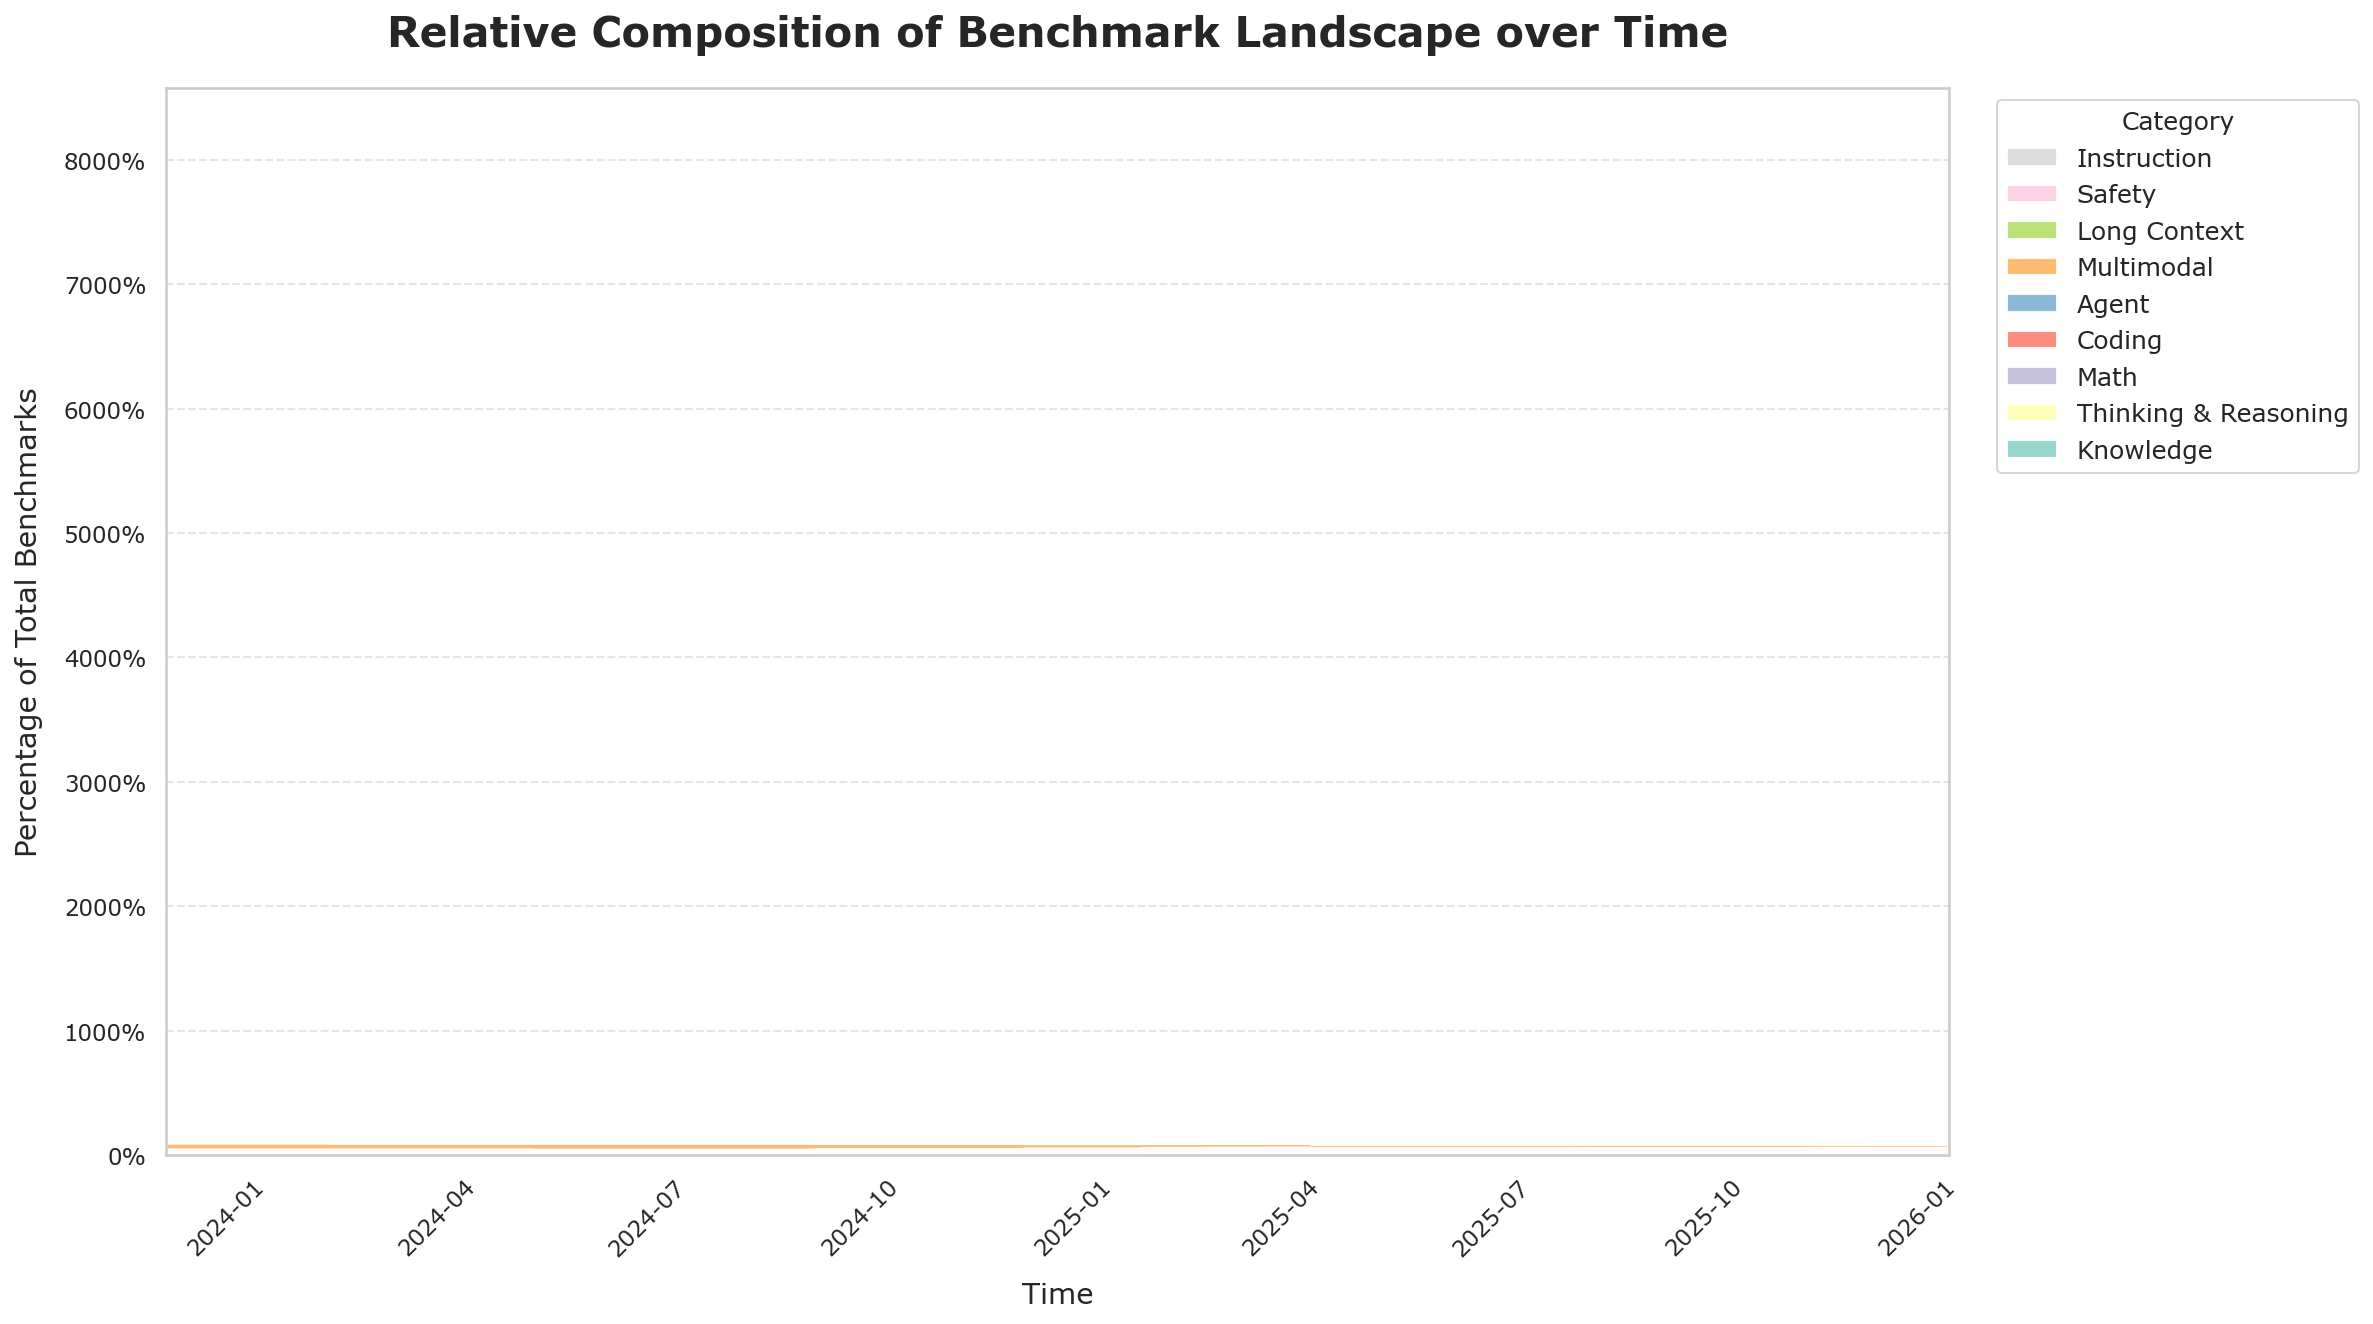
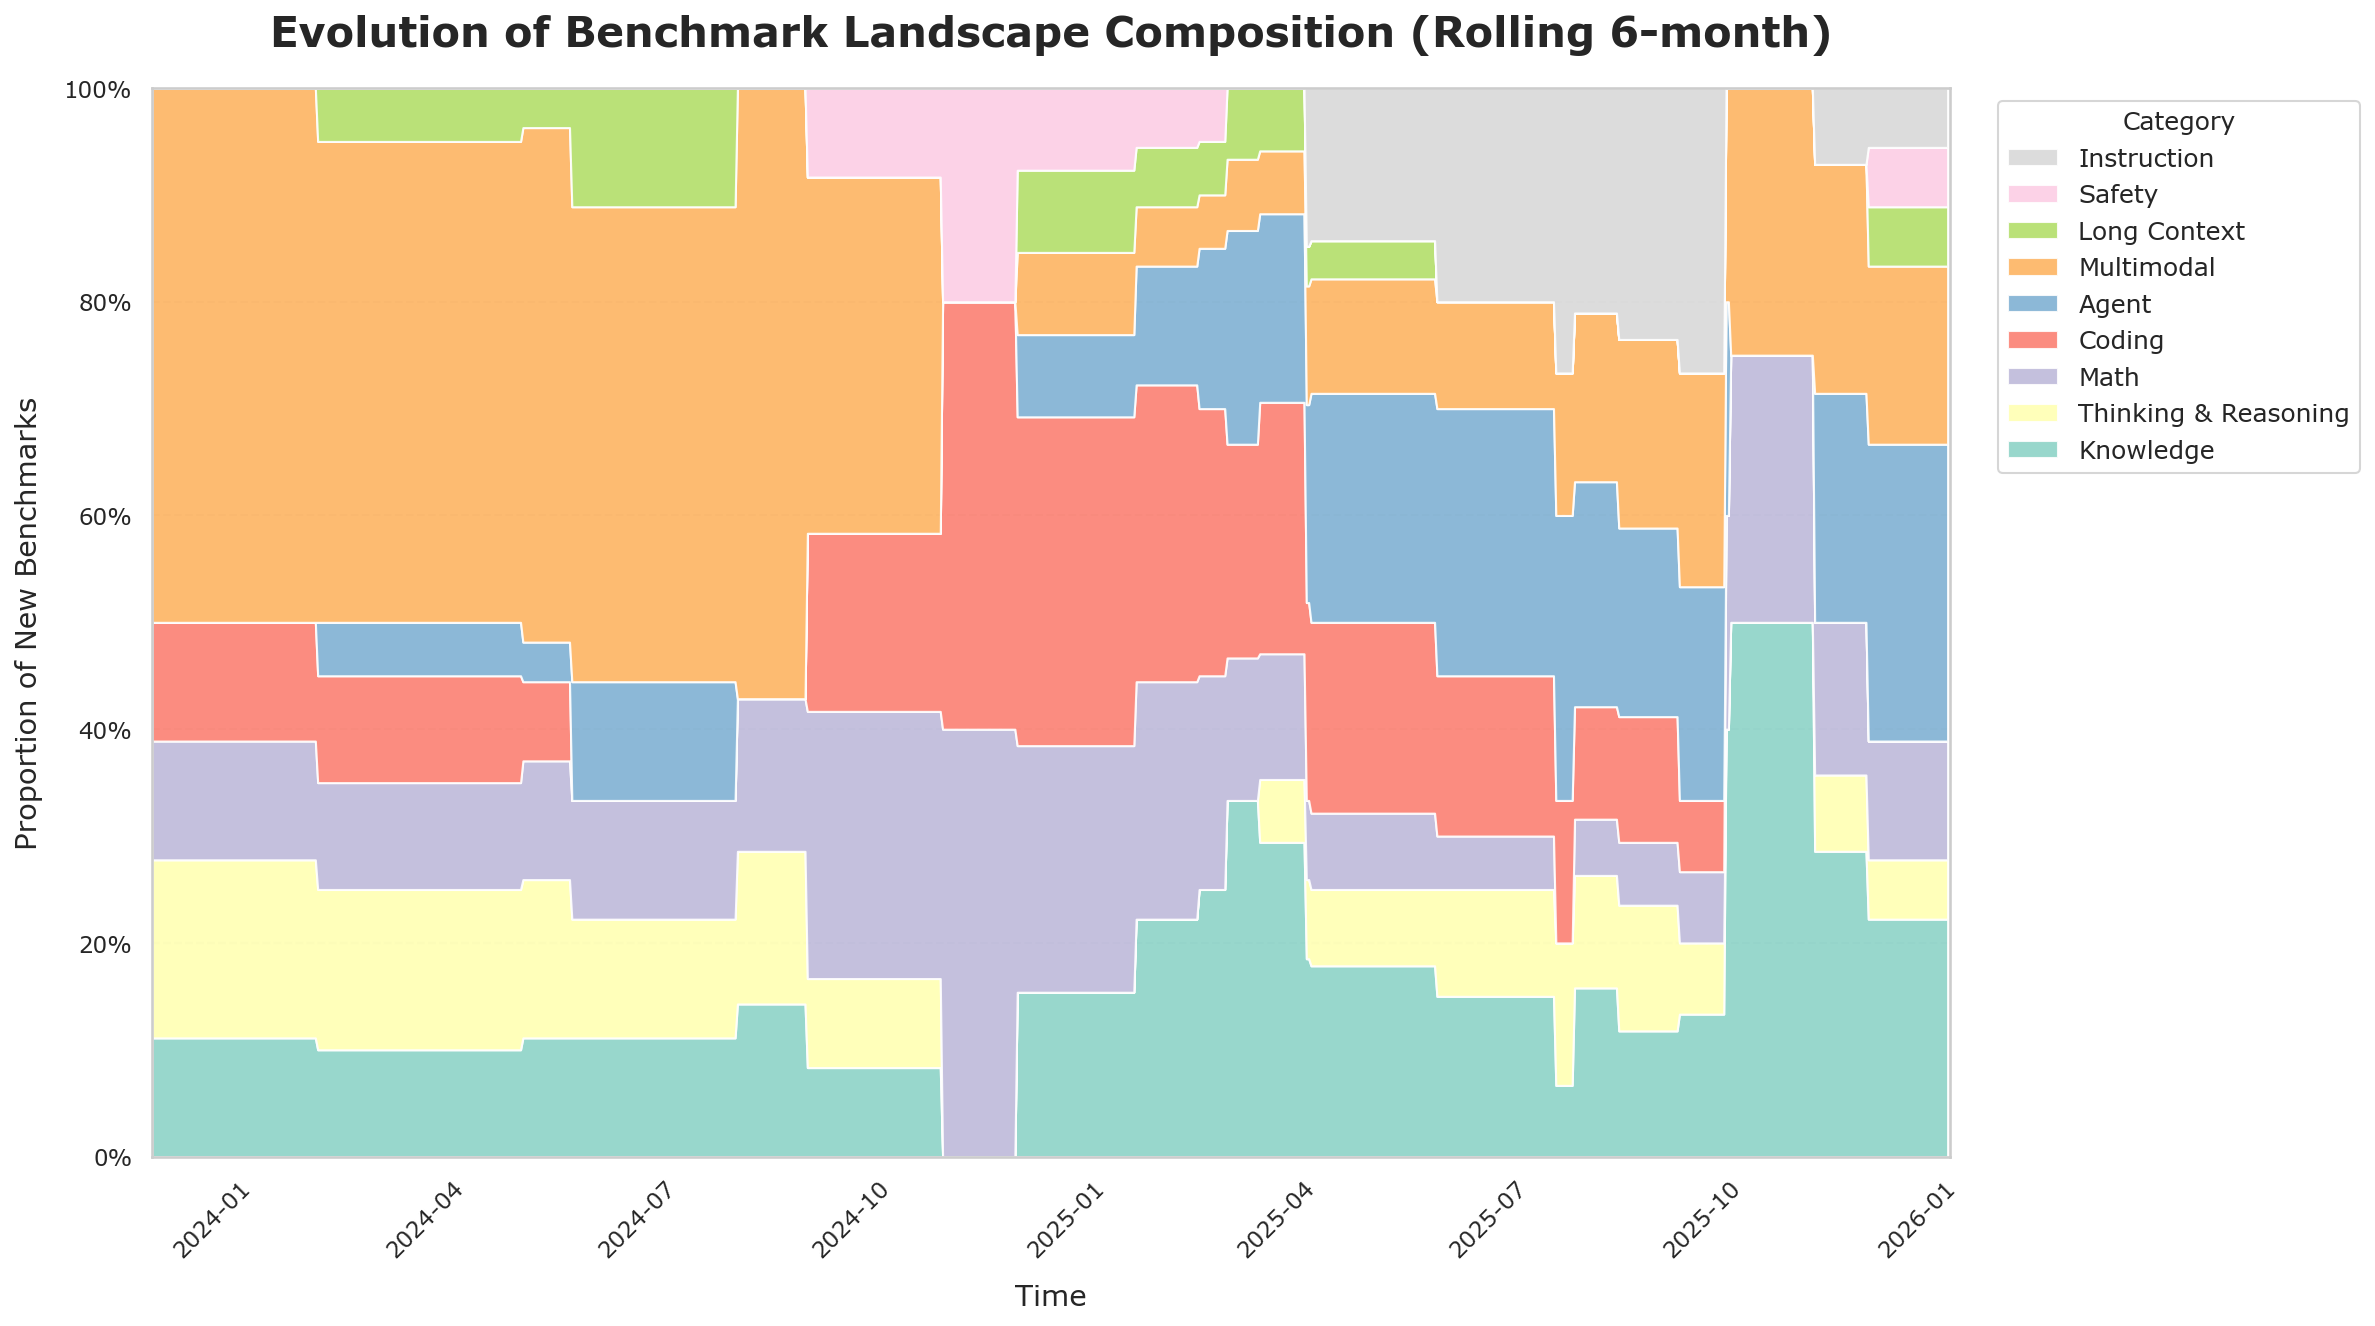
FIX: Benchmark Landscape Composition, cumulative to rate

diff --git a/scripts/generate_trend_graph.py b/scripts/generate_trend_graph.py
@@ -99,7 +99,7 @@ def generate_trend_graph():
         
     events_df.sort_values('Date', inplace=True)
     
-    # 4. Create Cumulative Data
+    # 4. Create Trend Data (Rolling Window)
     # Min date to Max date
     min_date = events_df['Date'].min()
     max_date = events_df['Date'].max()
@@ -107,13 +107,6 @@ def generate_trend_graph():
     max_date = max(max_date, pd.to_datetime('today'))
     
     date_range = pd.date_range(start=min_date, end=max_date, freq='D')
-    
-    # DataFrame to hold cumulative counts
-    # Index: Date, Columns: Categories
-    cum_counts = pd.DataFrame(0, index=date_range, columns=category_cols)
-    
-    # Iterate through days and cumulative sum?
-    # Easier: group by date and count, then reindex and cumsum
     
     # Pivot events: Date, Category -> Count
     # We aggregate by Day first
@@ -127,14 +120,18 @@ def generate_trend_graph():
         if c not in daily_counts.columns:
             daily_counts[c] = 0
             
-    # Cumulative Sum
-    cum_data = daily_counts.cumsum()
+    # Rolling Sum instead of Cumulative
+    # Using ~6 months window to show "current trend"
+    window_days = 180
+    rolling_data = daily_counts.rolling(window=window_days, min_periods=1).sum()
     
     # Normalize to Percentage
     # Divide each row by its sum to get proportion (0-1)
-    row_sums = cum_data.sum(axis=1)
-    # Avoid division by zero
-    cum_data_percent = cum_data.div(row_sums, axis=0).fillna(0)
+    row_sums = rolling_data.sum(axis=1)
+    
+    # Avoid division by zero and forward fill gaps
+    # If a window has 0 benchmarks, we carry forward the last known distribution
+    trend_data_percent = rolling_data.div(row_sums, axis=0).ffill().fillna(0)
     
     # Plotting
     fig, ax = plt.subplots(figsize=(16, 9))
@@ -144,14 +141,14 @@ def generate_trend_graph():
     
     # Stackplot
     # x needs to be separate
-    x = cum_data_percent.index
-    y = [cum_data_percent[col] for col in category_cols]
+    x = trend_data_percent.index
+    y = [trend_data_percent[col] for col in category_cols]
     
     ax.stackplot(x, y, labels=category_cols, colors=colors, alpha=0.9)
     
     # Aesthetics
-    ax.set_title("Relative Composition of Benchmark Landscape over Time", fontsize=20, weight='bold', pad=20)
-    ax.set_ylabel("Percentage of Total Benchmarks", fontsize=14, labelpad=10)
+    ax.set_title("Evolution of Benchmark Landscape Composition (Rolling 6-month)", fontsize=20, weight='bold', pad=20)
+    ax.set_ylabel("Proportion of New Benchmarks", fontsize=14, labelpad=10)
     ax.set_xlabel("Time", fontsize=14, labelpad=10)
     
     # Format Y axis as percentage
@@ -177,7 +174,7 @@ def generate_trend_graph():
     
     # Limits
     ax.set_xlim(min_date, max_date)
-    ax.set_ylim(0, cum_data.iloc[-1].sum() * 1.1)
+    ax.set_ylim(0, 1.0)
     
     plt.tight_layout()
     
